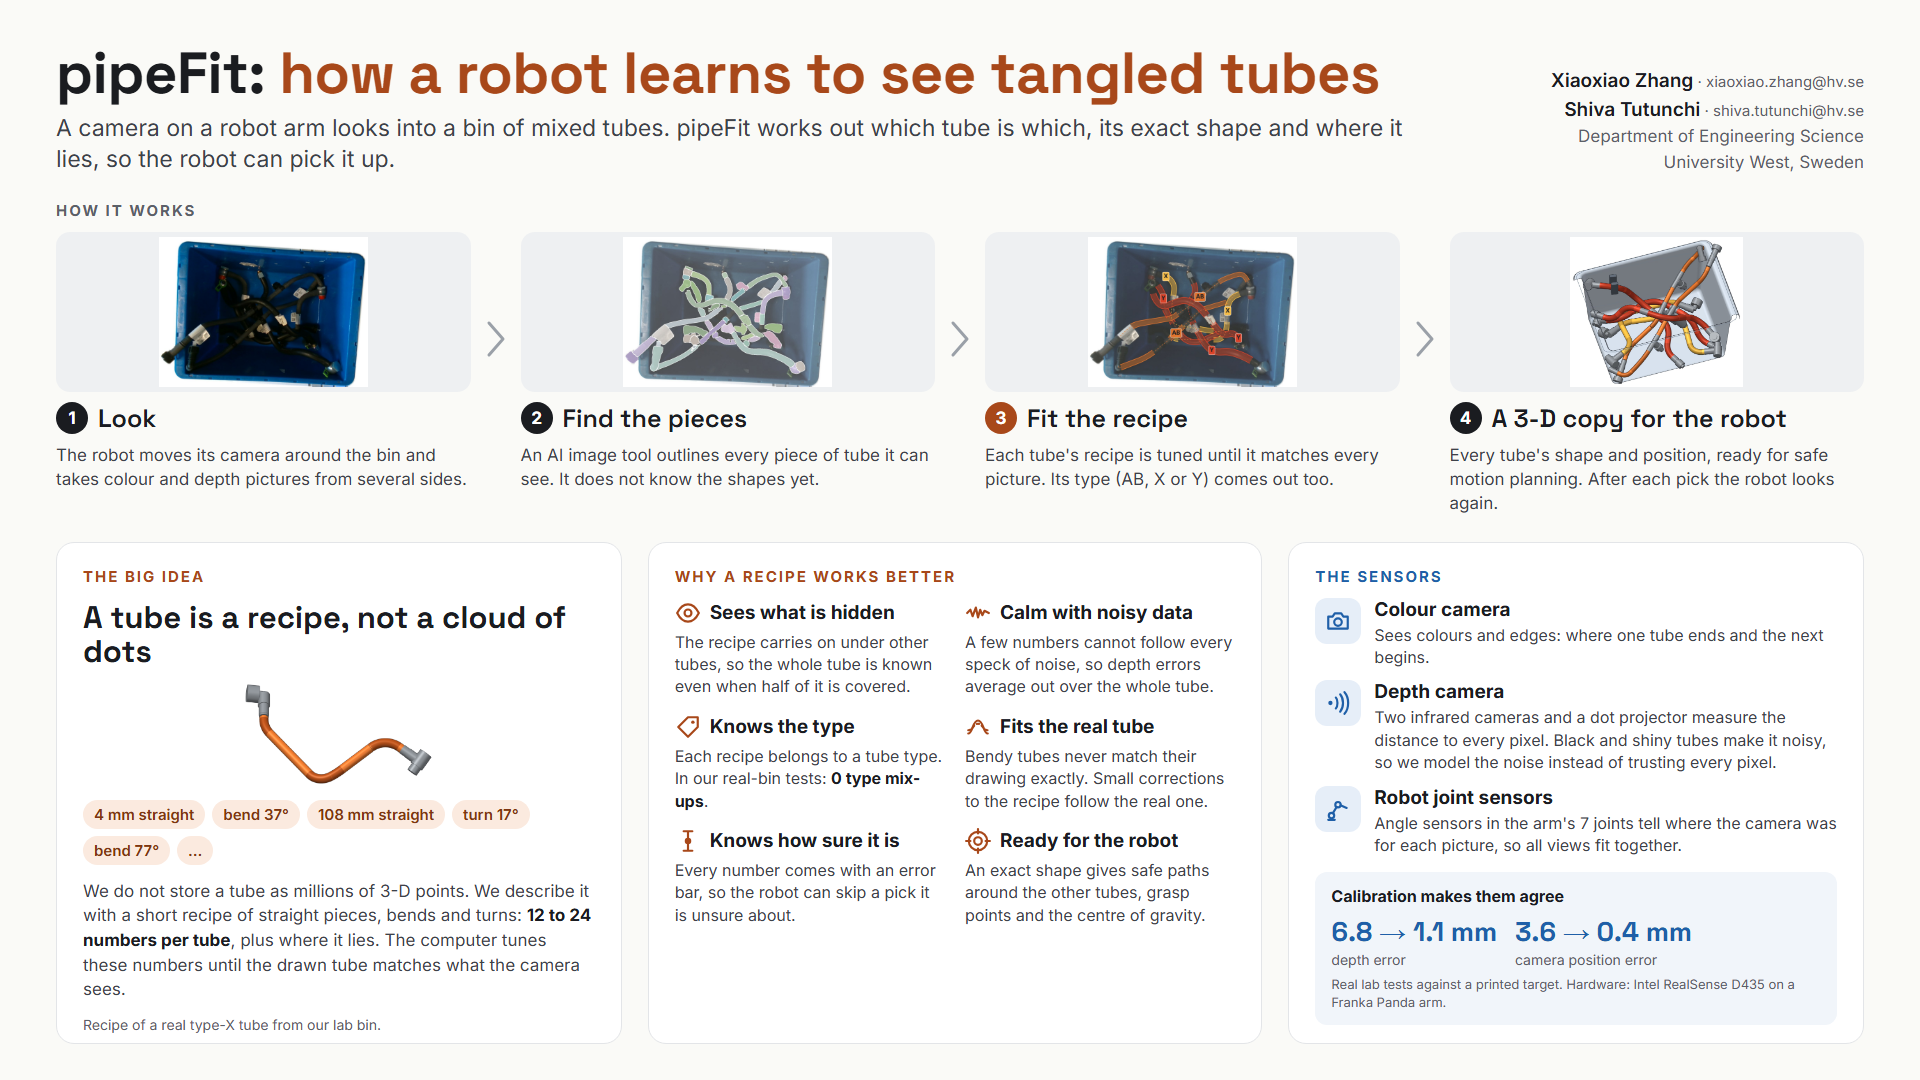
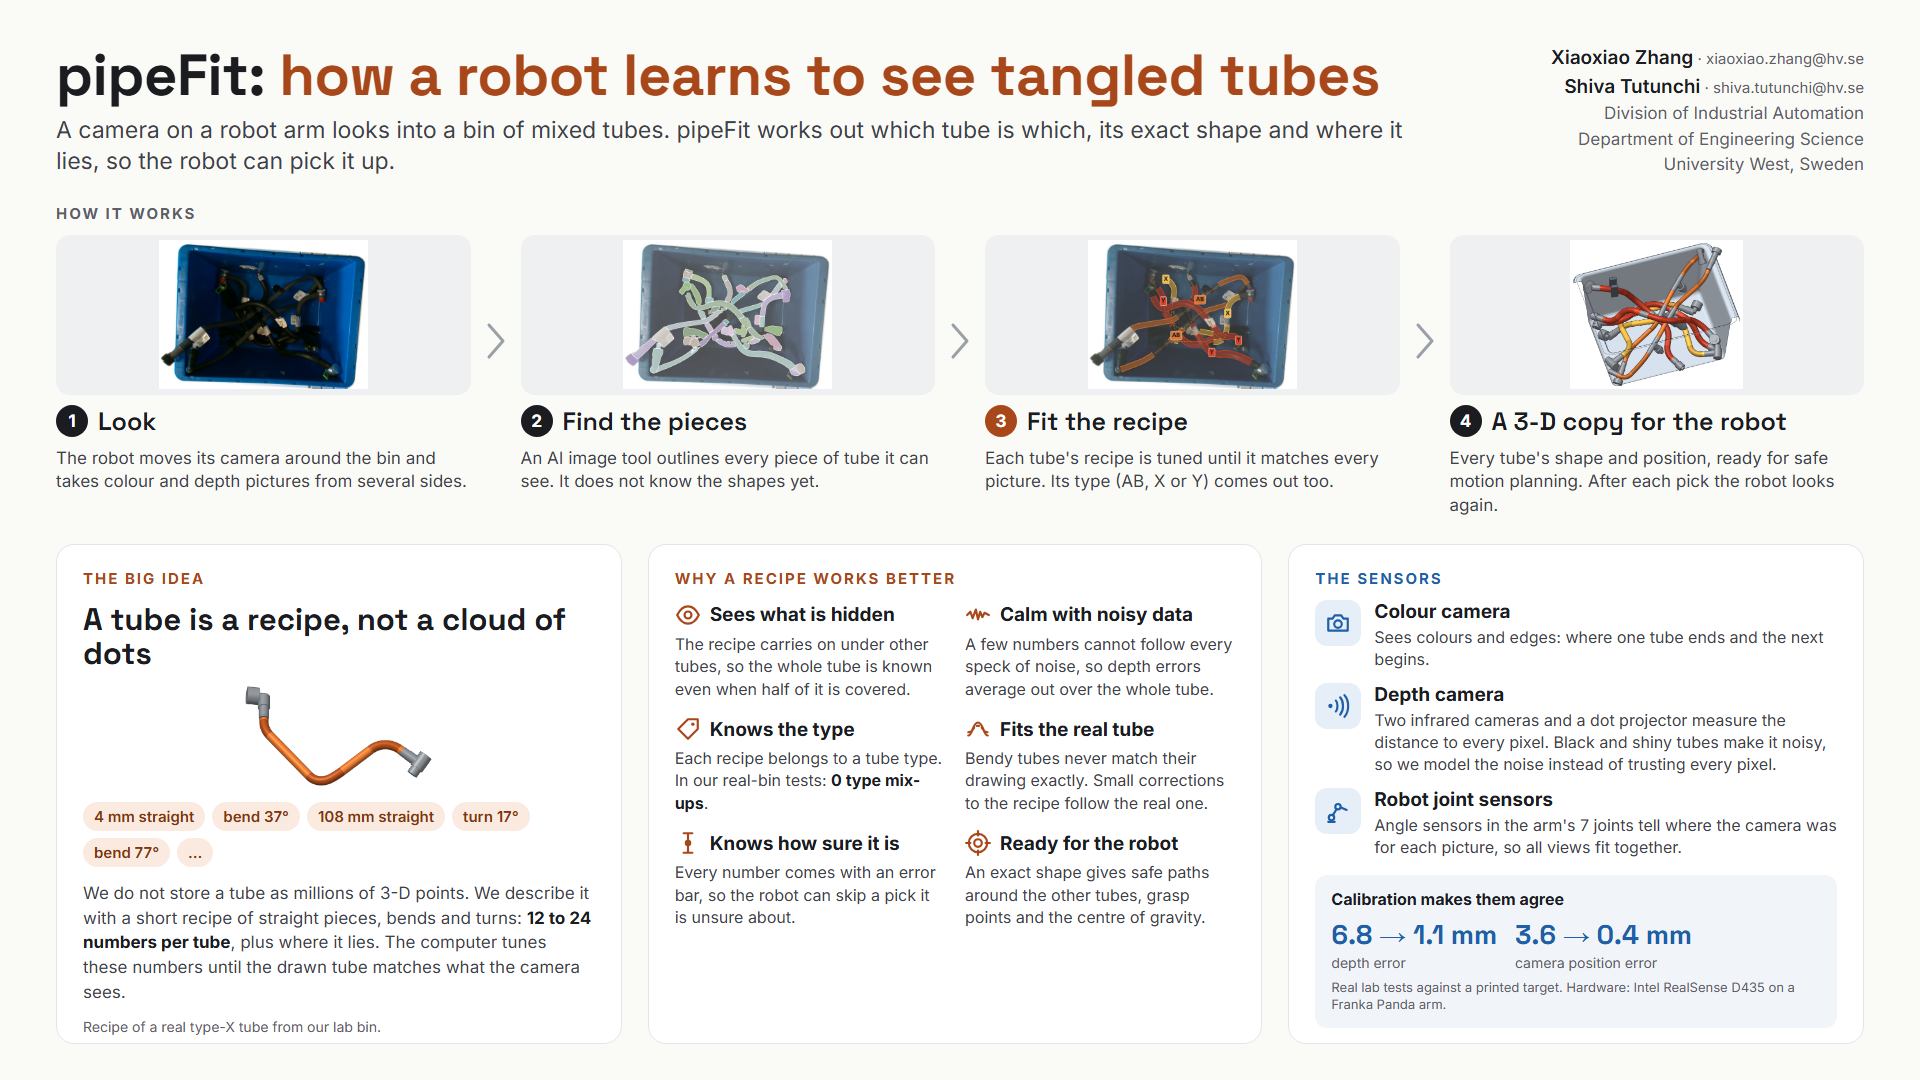
Division of Industrial Automation on page and posters

diff --git a/index.html b/index.html
@@ -111,7 +111,7 @@ footer{margin-top:40px;font-size:14px;color:var(--ink3);text-align:center}
 <div class="eyebrow">PIPEFIT</div>
 <h1>How a robot learns to see <span>tangled tubes</span></h1>
 <p class="intro">A camera on a robot arm looks into a bin of mixed tubes. pipeFit works out which tube is which, its exact shape and where it lies, so the robot can pick it up.</p>
-<p class="authors"><b>Xiaoxiao Zhang</b> · <a href="mailto:xiaoxiao.zhang@hv.se">xiaoxiao.zhang@hv.se</a><br><b>Shiva Tutunchi</b> · <a href="mailto:shiva.tutunchi@hv.se">shiva.tutunchi@hv.se</a><br>Department of Engineering Science · University West, Sweden · 2026</p>
+<p class="authors"><b>Xiaoxiao Zhang</b> · <a href="mailto:xiaoxiao.zhang@hv.se">xiaoxiao.zhang@hv.se</a><br><b>Shiva Tutunchi</b> · <a href="mailto:shiva.tutunchi@hv.se">shiva.tutunchi@hv.se</a><br>Division of Industrial Automation · Department of Engineering Science<br>University West, Sweden · 2026</p>
 </header>
 
 <section>
@@ -235,13 +235,13 @@ footer{margin-top:40px;font-size:14px;color:var(--ink3);text-align:center}
 <section>
 <div class="label">The full poster</div>
 <div class="posters">
-<a href="assets/poster-1.png?v=3"><img src="assets/poster-1.png?v=3" width="1920" height="1080" alt="Poster page 1: how pipeFit sees and rebuilds tangled tubes" loading="lazy"></a>
-<a href="assets/poster-2.png?v=3"><img src="assets/poster-2.png?v=3" width="1920" height="1080" alt="Poster page 2: grasping, and one robot API for two robot arm systems" loading="lazy"></a>
+<a href="assets/poster-1.png?v=4"><img src="assets/poster-1.png?v=4" width="1920" height="1080" alt="Poster page 1: how pipeFit sees and rebuilds tangled tubes" loading="lazy"></a>
+<a href="assets/poster-2.png?v=4"><img src="assets/poster-2.png?v=4" width="1920" height="1080" alt="Poster page 2: grasping, and one robot API for two robot arm systems" loading="lazy"></a>
 </div>
 <p class="small" style="margin-top:8px">Tap a page to open it full size.</p>
 </section>
 
-<footer>Questions? <a href="mailto:xiaoxiao.zhang@hv.se">xiaoxiao.zhang@hv.se</a> · <a href="mailto:shiva.tutunchi@hv.se">shiva.tutunchi@hv.se</a><br>Department of Engineering Science · University West, Sweden · 2026</footer>
+<footer>Questions? <a href="mailto:xiaoxiao.zhang@hv.se">xiaoxiao.zhang@hv.se</a> · <a href="mailto:shiva.tutunchi@hv.se">shiva.tutunchi@hv.se</a><br>Division of Industrial Automation · Department of Engineering Science<br>University West, Sweden · 2026</footer>
 
 </main>
 </body>
